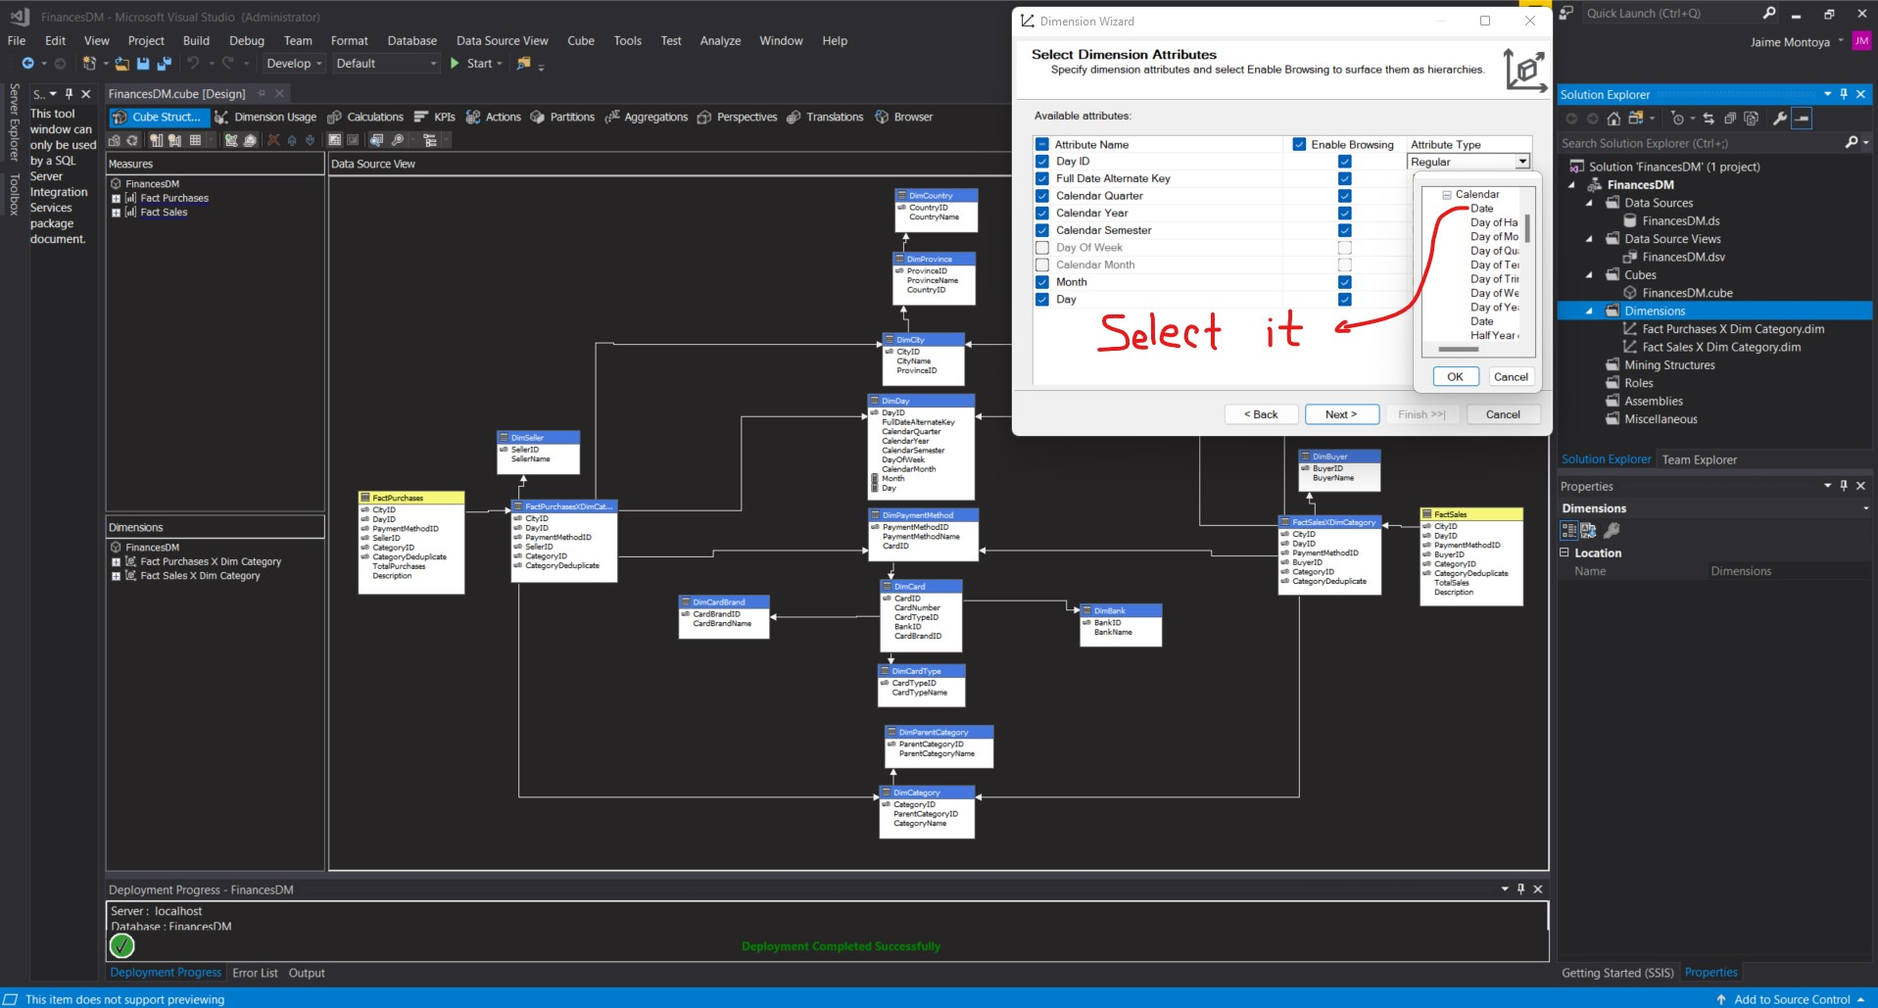
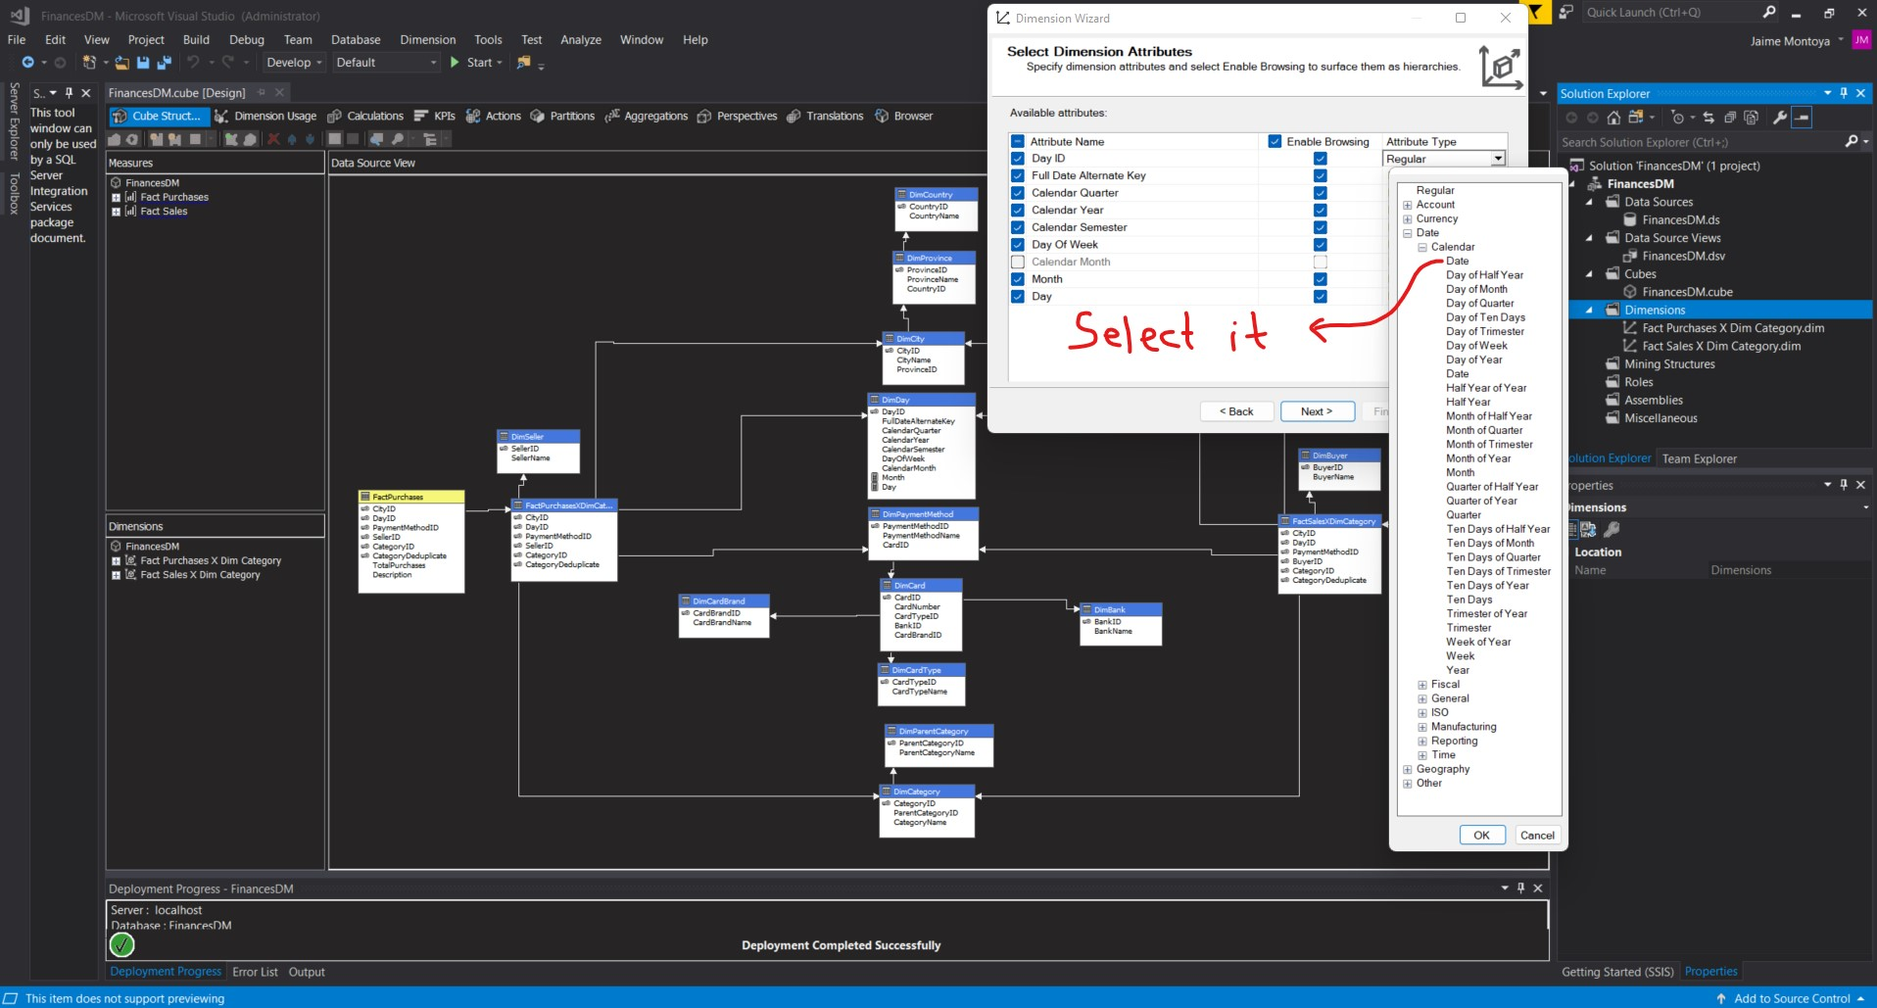
Define Attribute Type for Day ID.

diff --git a/blog/2023/12/31/06/14/book-info-20231231-0614.php b/blog/2023/12/31/06/14/book-info-20231231-0614.php
@@ -17,5 +17,5 @@ WHEN CalendarMonth = 11 THEN 'November'
 WHEN CalendarMonth = 12 THEN 'December'
 END
 </pre>		   
-		   </td></tr><tr><td>Day</td><td><span class=\"cod\">CONVERT(int, RIGHT(DayID, 2))</span></td></tr></table><p>I created the <span class=\"cod\">Named Calculation</span> for <span class=\"cod\">Month</span>:</p><div><img src=\"/blog/2023/12/31/06/14/img/createNamedCalculationForMonth.jpg\" alt=\"Create Named Calculation for Month\" width=\"1920\" height=\"1030\"></div><p>I created the <span class=\"cod\">Named Calculation</span> for <span class=\"cod\">Day</span>:</p><div><img src=\"/blog/2023/12/31/06/14/img/createNamedCalculationForDay.jpg\" alt=\"Create Named Calculation for Day\" width=\"1920\" height=\"1026\"></div><p>The new <span class=\"cod\">Named Calculations</span> appeared in the <span class=\"cod\">FinancesDM.dsv Data Source View</span> diagram:</p><div><img src=\"/blog/2023/12/31/06/14/img/calculatedColumnsInDataSourceView.jpg\" alt=\"Calculated columns in Data Source View\" width=\"1919\" height=\"1030\"></div><p>I right-clicked the <span class=\"cod\">DimDay</span> table and clicked <span class=\"cod\">Explore Data</span>:</p><div><img src=\"/blog/2023/12/31/06/14/img/exploreDataFromDataSourceView.jpg\" alt=\"Explore Data from Data Source View\" width=\"1916\" height=\"1028\"></div><p>The <span class=\"cod\">Explore DimDay Table</span> tab appeared with the corresponding results from the view:</p><div><img src=\"/blog/2023/12/31/06/14/img/exploreDimDayTable.jpg\" alt=\"Explore DimDay table\" width=\"1919\" height=\"1030\"></div><p>The results above were exactly the same as when running <span class=\"cod\">SELECT * FROM [Finances].[dbo].[DimDay]</span> from <span class=\"cod\">SQL Server Management Studio</span>, except for the two <span class=\"cod\">Calculated Columns</span> (<span class=\"cod\">Month</span> and <span class=\"cod\">Day</span>):</p><div><img src=\"/blog/2023/12/31/06/14/img/exploreDimDayTableDataFromSQLServerManagementStudio.jpg\" alt=\"Explore DimDay table data from SQL Server Management Studio\" width=\"1920\" height=\"1029\"></div><p>I double-clicked <span class=\"cod\">FinancesDM.cube</span> to open the <span class=\"cod\">FinancesDM.cube [Design]</span> tab. The <span class=\"cod\">Calculated Columns</span> were included in the cube diagram:</p><div><img src=\"/blog/2023/12/31/06/14/img/includeCalculatedColumnsInCubeDiagram.jpg\" alt=\"Include Calculated Columns in cube diagram\" width=\"1917\" height=\"1028\"></div><p>I right-clicked <span class=\"cod\">Dim Time.dim</span> and clicked <span class=\"cod\">Delete</span>:</p><div><img src=\"/blog/2023/12/31/06/14/img/deleteTimeDimension.jpg\" alt=\"Delete Time dimension\" width=\"1918\" height=\"1030\"></div><p>I clicked <span class=\"cod\">OK</span> to delete the <span class=\"cod\">Dim Time</span> object:</p><div><img src=\"/blog/2023/12/31/06/14/img/deleteDimTimeObject.jpg\" alt=\"Delete Dim Time object\" width=\"1918\" height=\"1028\"></div><p>I right-clicked the <span class=\"cod\">Dimensions</span> entry in the <span class=\"cod\">Solution Explorer</span> window, and selected <span class=\"cod\">New Dimension</span> from the context menu:</p><div><img src=\"/blog/2023/12/31/06/14/img/createNewTimeDimension.jpg\" alt=\"Create new Time dimension\" width=\"1922\" height=\"1080\"></div><p>The <span class=\"cod\">Dimension Wizard</span> dialog box appeared. I clicked <span class=\"cod\">Next</span>:</p><div><img src=\"/blog/2023/12/31/06/14/img/startDimensionWizard.jpg\" alt=\"Start Dimension Wizard\" width=\"1918\" height=\"1029\"></div><p>The <span class=\"cod\">Select Creation Method</span> page of the wizard appeared. I left the <span class=\"cod\">Use an existing table</span> item selected and clicked <span class=\"cod\">Next</span>:</p><div><img src=\"/blog/2023/12/31/06/14/img/useAnExistingTableToCreateDimension.jpg\" alt=\"Use an existing table to create dimension\" width=\"1919\" height=\"1028\"></div><p>The <span class=\"cod\">Specify Source Information</span> page appeared. The <span class=\"cod\">FinancesDM</span> data source view was already selected. I selected <span class=\"cod\">DimDay</span> from the <span class=\"cod\">Main table</span> drop-down list. <span class=\"cod\">DayID</span> was selected as the first and only <span class=\"cod\">Key column</span>. I selected <span class=\"cod\">DayID</span> from the drop-down list at the bottom. I clicked <span class=\"cod\">Next</span>:</p><div><img src=\"/blog/2023/12/31/06/14/img/specifySourceInformationForTimeDimension.jpg\" alt=\"Specify Source Information for Time dimension\" width=\"1917\" height=\"1031\"></div><p>The <span class=\"cod\">Select Dimension Attributes</span> page appeared. I left <span class=\"cod\">Day ID</span> checked and also checked <span class=\"cod\">Full Date Alternate Key</span>, <span class=\"cod\">Calendar Quarter</span>, <span class=\"cod\">Calendar Year</span>, <span class=\"cod\">Calendar Semester</span>, <span class=\"cod\">Month</span>, and <span class=\"cod\">Day</span>. I clicked in the <span class=\"cod\">Attribute Type column</span> across from <span class=\"cod\">Day ID</span>. I clicked the drop-down arrow. I expanded the <span class=\"cod\">Date</span> entry. I expanded the <span class=\"cod\">Calendar</span> entry. I selected <span class=\"cod\">Date</span> and clicked <span class=\"cod\">OK</span>:</p><div><img src=\"/blog/2023/12/31/06/14/img/defineAttributeTypeForDayID.jpg\" alt=\"Define Attribute Type for Day ID\" width=\"1917\" height=\"1029\"></div><p>I clicked in the <span class=\"cod\">Attribute Type column</span> across from <span class=\"cod\">Full Date Alternate Key</span>. I clicked the drop-down arrow. I expanded the <span class=\"cod\">Date</span> entry. I expanded the <span class=\"cod\">Calendar</span> entry. I selected <span class=\"cod\">Date</span> and clicked <span class=\"cod\">OK</span>:</p><div><img src=\"/blog/2023/12/31/06/14/img/selectDateAttributeType.jpg\" alt=\"Select Date Attribute Type\" width=\"1917\" height=\"1027\"></div><p>I clicked in the <span class=\"cod\">Attribute Type</span> column across from <span class=\"cod\">Calendar Quarter</span>. I clicked the drop-down arrow. I expanded the <span class=\"cod\">Date</span> entry. I expanded the <span class=\"cod\">Calendar</span> entry. I selected <span class=\"cod\">Quarter</span> and clicked <span class=\"cod\">OK</span>:</p><div><img src=\"/blog/2023/12/31/06/14/img/selectQuarterAttributeType.jpg\" alt=\"Select Quarter Attribute Type\" width=\"1919\" height=\"1028\"></div><p>I clicked in the <span class=\"cod\">Attribute Type</span> column across from <span class=\"cod\">Calendar Year</span>. I clicked the drop-down arrow. I expanded the <span class=\"cod\">Date</span> entry. I expanded the <span class=\"cod\">Calendar</span> entry. I selected <span class=\"cod\">Year</span> and clicked <span class=\"cod\">OK</span>:</p><div><img src=\"/blog/2023/12/31/06/14/img/selectYearAttributeTypeForDimension.jpg\" alt=\"Select Year Attribute Type for Dimension\" width=\"1917\" height=\"1031\"></div><p>I clicked in the <span class=\"cod\">Attribute Type</span> column across from <span class=\"cod\">Calendar Semester</span>. I clicked the drop-down arrow. I expanded the <span class=\"cod\">Date</span> entry. I expanded the <span class=\"cod\">Calendar</span> entry. I selected <span class=\"cod\">Half Year</span> and clicked <span class=\"cod\">OK</span>:</p><div><img src=\"/blog/2023/12/31/06/14/img/selectHalfYearAttributeTypeForDimension.jpg\" alt=\"Select Half Year Attribute Type for Dimension\" width=\"1917\" height=\"1030\"></div><p>I clicked in the <span class=\"cod\">Attribute Type</span> column across from <span class=\"cod\">Month</span>. I clicked the drop-down arrow. I expanded the <span class=\"cod\">Date</span> entry. I expanded the <span class=\"cod\">Calendar</span> entry. I selected <span class=\"cod\">Month</span> and clicked <span class=\"cod\">OK</span>:</p><div><img src=\"/blog/2023/12/31/06/14/img/selectMonthAttributeTypeForDimension.jpg\" alt=\"Select Month Attribute Type for Dimension\" width=\"1917\" height=\"1031\"></div><p>I clicked in the <span class=\"cod\">Attribute Type</span> column across from <span class=\"cod\">Day</span>. I clicked the drop-down arrow. I expanded the <span class=\"cod\">Date</span> entry. I expanded the <span class=\"cod\">Calendar</span> entry. I selected <span class=\"cod\">Day of Week</span> and clicked <span class=\"cod\">OK</span>:</p><div><img src=\"/blog/2023/12/31/06/14/img/selectDayOfWeekAttributeForDimension.jpg\" alt=\"Select Day of Week Attribute Type for Dimension\" width=\"1919\" height=\"1030\"></div><p>I clicked <span class=\"cod\">Next</span>:</p><div><img src=\"/blog/2023/12/31/06/14/img/clickNextAfterSelectingTimeDimensionAttributes.jpg\" alt=\"Click Next after selecting Time Dimension attributes\" width=\"1920\" height=\"1029\"></div><p>The <span class=\"cod\">Completing the Wizard</span> page appeared. I changed the name to <span class=\"cod\">Dim Time</span>. I clicked <span class=\"cod\">Finish</span>:</p><div><img src=\"/blog/2023/12/31/06/14/img/clickFinishToCompleteCreationOfTimeDimension.jpg\" alt=\"Click Finish to complete creation of Time Dimension\" width=\"1920\" height=\"1030\"></div><p>The <span class=\"cod\">Dimension Design</span> tab appeared with the <span class=\"cod\">Dim Time</span> dimension:</p><div><img src=\"/blog/2023/12/31/06/14/img/timeDimensionDesignTabForNewTimeDimension.jpg\" alt=\"Time Dimension Design tab for new Time Dimension\" width=\"1918\" height=\"1029\"></div><p>I right-clicked the entry for <span class=\"cod\">Day ID</span> in the <span class=\"cod\">Attributes</span> area, and selected <span class=\"cod\">Rename</span> from the context menu:</p><div><img src=\"/blog/2023/12/31/06/14/img/renameDayIDAttribute.jpg\" alt=\"Rename Day ID Attribute\" width=\"1917\" height=\"1030\"></div><p>I entered <span class=\"cod\">Date Key</span> for the name of this attribute, and pressed <span class=\"cod\">ENTER</span>:</p><div><img src=\"/blog/2023/12/31/06/14/img/dayIDRenamedToDateKey.jpg\" alt=\"Day ID renamed to Date Key\" width=\"1918\" height=\"1030\"></div><p>I repeated the steps above to rename the other attributes as follows:</p><table><tbody><tr><th>Old name</th><th>New name</th></tr><tr><td>Calendar Quarter</td><td>Quarter</td></tr><tr><td>Calendar Semester</td><td>Semester</td></tr><tr><td>Calendar Year</td><td>Year</td></tr><tr><td>Full Date Alternate Key</td><td>Date</td></tr></tbody></table><div><img src=\"/blog/2023/12/31/06/14/img/renameTimeAttributes.jpg\" alt=\"Rename Time Attributes\" width=\"1920\" height=\"1029\"></div><p>I dragged the <span class=\"cod\">Year</span> item from the <span class=\"cod\">Attributes</span> column, and dropped it in the <span class=\"cod\">Hierarchies</span> area:</p><div><img src=\"/blog/2023/12/31/06/14/img/moveYearAttributeToHierarchy.jpg\" alt=\"Move Year Attribute to Hierarchy\" width=\"1920\" height=\"1030\"></div><p>I dragged the <span class=\"cod\">Semester</span> item from the <span class=\"cod\">Attributes</span> column, and dropped it on <span class=\"cod\">&lt;new level&gt;</span> in the <span class=\"cod\">Hierarchies</span> area:</p><div><img src=\"/blog/2023/12/31/06/14/img/moveSemesterAttributeToHierarchy.jpg\" alt=\"Move Semester Attribute to Hierarchy\" width=\"1916\" height=\"1029\"></div> <div>Published: 6:14 AM GMT · Dec 31, 2023</div>\n";
+		   </td></tr><tr><td>Day</td><td><span class=\"cod\">CONVERT(int, RIGHT(DayID, 2))</span></td></tr></table><p>I created the <span class=\"cod\">Named Calculation</span> for <span class=\"cod\">Month</span>:</p><div><img src=\"/blog/2023/12/31/06/14/img/createNamedCalculationForMonth.jpg\" alt=\"Create Named Calculation for Month\" width=\"1920\" height=\"1030\"></div><p>I created the <span class=\"cod\">Named Calculation</span> for <span class=\"cod\">Day</span>:</p><div><img src=\"/blog/2023/12/31/06/14/img/createNamedCalculationForDay.jpg\" alt=\"Create Named Calculation for Day\" width=\"1920\" height=\"1026\"></div><p>The new <span class=\"cod\">Named Calculations</span> appeared in the <span class=\"cod\">FinancesDM.dsv Data Source View</span> diagram:</p><div><img src=\"/blog/2023/12/31/06/14/img/calculatedColumnsInDataSourceView.jpg\" alt=\"Calculated columns in Data Source View\" width=\"1919\" height=\"1030\"></div><p>I right-clicked the <span class=\"cod\">DimDay</span> table and clicked <span class=\"cod\">Explore Data</span>:</p><div><img src=\"/blog/2023/12/31/06/14/img/exploreDataFromDataSourceView.jpg\" alt=\"Explore Data from Data Source View\" width=\"1916\" height=\"1028\"></div><p>The <span class=\"cod\">Explore DimDay Table</span> tab appeared with the corresponding results from the view:</p><div><img src=\"/blog/2023/12/31/06/14/img/exploreDimDayTable.jpg\" alt=\"Explore DimDay table\" width=\"1919\" height=\"1030\"></div><p>The results above were exactly the same as when running <span class=\"cod\">SELECT * FROM [Finances].[dbo].[DimDay]</span> from <span class=\"cod\">SQL Server Management Studio</span>, except for the two <span class=\"cod\">Calculated Columns</span> (<span class=\"cod\">Month</span> and <span class=\"cod\">Day</span>):</p><div><img src=\"/blog/2023/12/31/06/14/img/exploreDimDayTableDataFromSQLServerManagementStudio.jpg\" alt=\"Explore DimDay table data from SQL Server Management Studio\" width=\"1920\" height=\"1029\"></div><p>I double-clicked <span class=\"cod\">FinancesDM.cube</span> to open the <span class=\"cod\">FinancesDM.cube [Design]</span> tab. The <span class=\"cod\">Calculated Columns</span> were included in the cube diagram:</p><div><img src=\"/blog/2023/12/31/06/14/img/includeCalculatedColumnsInCubeDiagram.jpg\" alt=\"Include Calculated Columns in cube diagram\" width=\"1917\" height=\"1028\"></div><p>I right-clicked <span class=\"cod\">Dim Time.dim</span> and clicked <span class=\"cod\">Delete</span>:</p><div><img src=\"/blog/2023/12/31/06/14/img/deleteTimeDimension.jpg\" alt=\"Delete Time dimension\" width=\"1918\" height=\"1030\"></div><p>I clicked <span class=\"cod\">OK</span> to delete the <span class=\"cod\">Dim Time</span> object:</p><div><img src=\"/blog/2023/12/31/06/14/img/deleteDimTimeObject.jpg\" alt=\"Delete Dim Time object\" width=\"1918\" height=\"1028\"></div><p>I right-clicked the <span class=\"cod\">Dimensions</span> entry in the <span class=\"cod\">Solution Explorer</span> window, and selected <span class=\"cod\">New Dimension</span> from the context menu:</p><div><img src=\"/blog/2023/12/31/06/14/img/createNewTimeDimension.jpg\" alt=\"Create new Time dimension\" width=\"1922\" height=\"1080\"></div><p>The <span class=\"cod\">Dimension Wizard</span> dialog box appeared. I clicked <span class=\"cod\">Next</span>:</p><div><img src=\"/blog/2023/12/31/06/14/img/startDimensionWizard.jpg\" alt=\"Start Dimension Wizard\" width=\"1918\" height=\"1029\"></div><p>The <span class=\"cod\">Select Creation Method</span> page of the wizard appeared. I left the <span class=\"cod\">Use an existing table</span> item selected and clicked <span class=\"cod\">Next</span>:</p><div><img src=\"/blog/2023/12/31/06/14/img/useAnExistingTableToCreateDimension.jpg\" alt=\"Use an existing table to create dimension\" width=\"1919\" height=\"1028\"></div><p>The <span class=\"cod\">Specify Source Information</span> page appeared. The <span class=\"cod\">FinancesDM</span> data source view was already selected. I selected <span class=\"cod\">DimDay</span> from the <span class=\"cod\">Main table</span> drop-down list. <span class=\"cod\">DayID</span> was selected as the first and only <span class=\"cod\">Key column</span>. I selected <span class=\"cod\">DayID</span> from the drop-down list at the bottom. I clicked <span class=\"cod\">Next</span>:</p><div><img src=\"/blog/2023/12/31/06/14/img/specifySourceInformationForTimeDimension.jpg\" alt=\"Specify Source Information for Time dimension\" width=\"1917\" height=\"1031\"></div><p>The <span class=\"cod\">Select Dimension Attributes</span> page appeared. I left <span class=\"cod\">Day ID</span> checked and also checked <span class=\"cod\">Full Date Alternate Key</span>, <span class=\"cod\">Calendar Quarter</span>, <span class=\"cod\">Calendar Year</span>, <span class=\"cod\">Calendar Semester</span>, <span class=\"cod\">Day Of Week</span>, <span class=\"cod\">Month</span>, and <span class=\"cod\">Day</span>. I clicked in the <span class=\"cod\">Attribute Type column</span> across from <span class=\"cod\">Day ID</span>. I clicked the drop-down arrow. I expanded the <span class=\"cod\">Date</span> entry. I expanded the <span class=\"cod\">Calendar</span> entry. I selected <span class=\"cod\">Date</span> and clicked <span class=\"cod\">OK</span>:</p><div><img src=\"/blog/2023/12/31/06/14/img/defineAttributeTypeForDayID.jpg\" alt=\"Define Attribute Type for Day ID\" width=\"1917\" height=\"1029\"></div><p>I clicked in the <span class=\"cod\">Attribute Type column</span> across from <span class=\"cod\">Full Date Alternate Key</span>. I clicked the drop-down arrow. I expanded the <span class=\"cod\">Date</span> entry. I expanded the <span class=\"cod\">Calendar</span> entry. I selected <span class=\"cod\">Date</span> and clicked <span class=\"cod\">OK</span>:</p><div><img src=\"/blog/2023/12/31/06/14/img/selectDateAttributeType.jpg\" alt=\"Select Date Attribute Type\" width=\"1917\" height=\"1027\"></div><p>I clicked in the <span class=\"cod\">Attribute Type</span> column across from <span class=\"cod\">Calendar Quarter</span>. I clicked the drop-down arrow. I expanded the <span class=\"cod\">Date</span> entry. I expanded the <span class=\"cod\">Calendar</span> entry. I selected <span class=\"cod\">Quarter</span> and clicked <span class=\"cod\">OK</span>:</p><div><img src=\"/blog/2023/12/31/06/14/img/selectQuarterAttributeType.jpg\" alt=\"Select Quarter Attribute Type\" width=\"1919\" height=\"1028\"></div><p>I clicked in the <span class=\"cod\">Attribute Type</span> column across from <span class=\"cod\">Calendar Year</span>. I clicked the drop-down arrow. I expanded the <span class=\"cod\">Date</span> entry. I expanded the <span class=\"cod\">Calendar</span> entry. I selected <span class=\"cod\">Year</span> and clicked <span class=\"cod\">OK</span>:</p><div><img src=\"/blog/2023/12/31/06/14/img/selectYearAttributeTypeForDimension.jpg\" alt=\"Select Year Attribute Type for Dimension\" width=\"1917\" height=\"1031\"></div><p>I clicked in the <span class=\"cod\">Attribute Type</span> column across from <span class=\"cod\">Calendar Semester</span>. I clicked the drop-down arrow. I expanded the <span class=\"cod\">Date</span> entry. I expanded the <span class=\"cod\">Calendar</span> entry. I selected <span class=\"cod\">Half Year</span> and clicked <span class=\"cod\">OK</span>:</p><div><img src=\"/blog/2023/12/31/06/14/img/selectHalfYearAttributeTypeForDimension.jpg\" alt=\"Select Half Year Attribute Type for Dimension\" width=\"1917\" height=\"1030\"></div><p>I clicked in the <span class=\"cod\">Attribute Type</span> column across from <span class=\"cod\">Month</span>. I clicked the drop-down arrow. I expanded the <span class=\"cod\">Date</span> entry. I expanded the <span class=\"cod\">Calendar</span> entry. I selected <span class=\"cod\">Month</span> and clicked <span class=\"cod\">OK</span>:</p><div><img src=\"/blog/2023/12/31/06/14/img/selectMonthAttributeTypeForDimension.jpg\" alt=\"Select Month Attribute Type for Dimension\" width=\"1917\" height=\"1031\"></div><p>I clicked in the <span class=\"cod\">Attribute Type</span> column across from <span class=\"cod\">Day</span>. I clicked the drop-down arrow. I expanded the <span class=\"cod\">Date</span> entry. I expanded the <span class=\"cod\">Calendar</span> entry. I selected <span class=\"cod\">Day of Week</span> and clicked <span class=\"cod\">OK</span>:</p><div><img src=\"/blog/2023/12/31/06/14/img/selectDayOfWeekAttributeForDimension.jpg\" alt=\"Select Day of Week Attribute Type for Dimension\" width=\"1919\" height=\"1030\"></div><p>I clicked <span class=\"cod\">Next</span>:</p><div><img src=\"/blog/2023/12/31/06/14/img/clickNextAfterSelectingTimeDimensionAttributes.jpg\" alt=\"Click Next after selecting Time Dimension attributes\" width=\"1920\" height=\"1029\"></div><p>The <span class=\"cod\">Completing the Wizard</span> page appeared. I changed the name to <span class=\"cod\">Dim Time</span>. I clicked <span class=\"cod\">Finish</span>:</p><div><img src=\"/blog/2023/12/31/06/14/img/clickFinishToCompleteCreationOfTimeDimension.jpg\" alt=\"Click Finish to complete creation of Time Dimension\" width=\"1920\" height=\"1030\"></div><p>The <span class=\"cod\">Dimension Design</span> tab appeared with the <span class=\"cod\">Dim Time</span> dimension:</p><div><img src=\"/blog/2023/12/31/06/14/img/timeDimensionDesignTabForNewTimeDimension.jpg\" alt=\"Time Dimension Design tab for new Time Dimension\" width=\"1918\" height=\"1029\"></div><p>I right-clicked the entry for <span class=\"cod\">Day ID</span> in the <span class=\"cod\">Attributes</span> area, and selected <span class=\"cod\">Rename</span> from the context menu:</p><div><img src=\"/blog/2023/12/31/06/14/img/renameDayIDAttribute.jpg\" alt=\"Rename Day ID Attribute\" width=\"1917\" height=\"1030\"></div><p>I entered <span class=\"cod\">Date Key</span> for the name of this attribute, and pressed <span class=\"cod\">ENTER</span>:</p><div><img src=\"/blog/2023/12/31/06/14/img/dayIDRenamedToDateKey.jpg\" alt=\"Day ID renamed to Date Key\" width=\"1918\" height=\"1030\"></div><p>I repeated the steps above to rename the other attributes as follows:</p><table><tbody><tr><th>Old name</th><th>New name</th></tr><tr><td>Calendar Quarter</td><td>Quarter</td></tr><tr><td>Calendar Semester</td><td>Semester</td></tr><tr><td>Calendar Year</td><td>Year</td></tr><tr><td>Full Date Alternate Key</td><td>Date</td></tr></tbody></table><div><img src=\"/blog/2023/12/31/06/14/img/renameTimeAttributes.jpg\" alt=\"Rename Time Attributes\" width=\"1920\" height=\"1029\"></div><p>I dragged the <span class=\"cod\">Year</span> item from the <span class=\"cod\">Attributes</span> column, and dropped it in the <span class=\"cod\">Hierarchies</span> area:</p><div><img src=\"/blog/2023/12/31/06/14/img/moveYearAttributeToHierarchy.jpg\" alt=\"Move Year Attribute to Hierarchy\" width=\"1920\" height=\"1030\"></div><p>I dragged the <span class=\"cod\">Semester</span> item from the <span class=\"cod\">Attributes</span> column, and dropped it on <span class=\"cod\">&lt;new level&gt;</span> in the <span class=\"cod\">Hierarchies</span> area:</p><div><img src=\"/blog/2023/12/31/06/14/img/moveSemesterAttributeToHierarchy.jpg\" alt=\"Move Semester Attribute to Hierarchy\" width=\"1916\" height=\"1029\"></div> <div>Published: 6:14 AM GMT · Dec 31, 2023</div>\n";
 ?>
